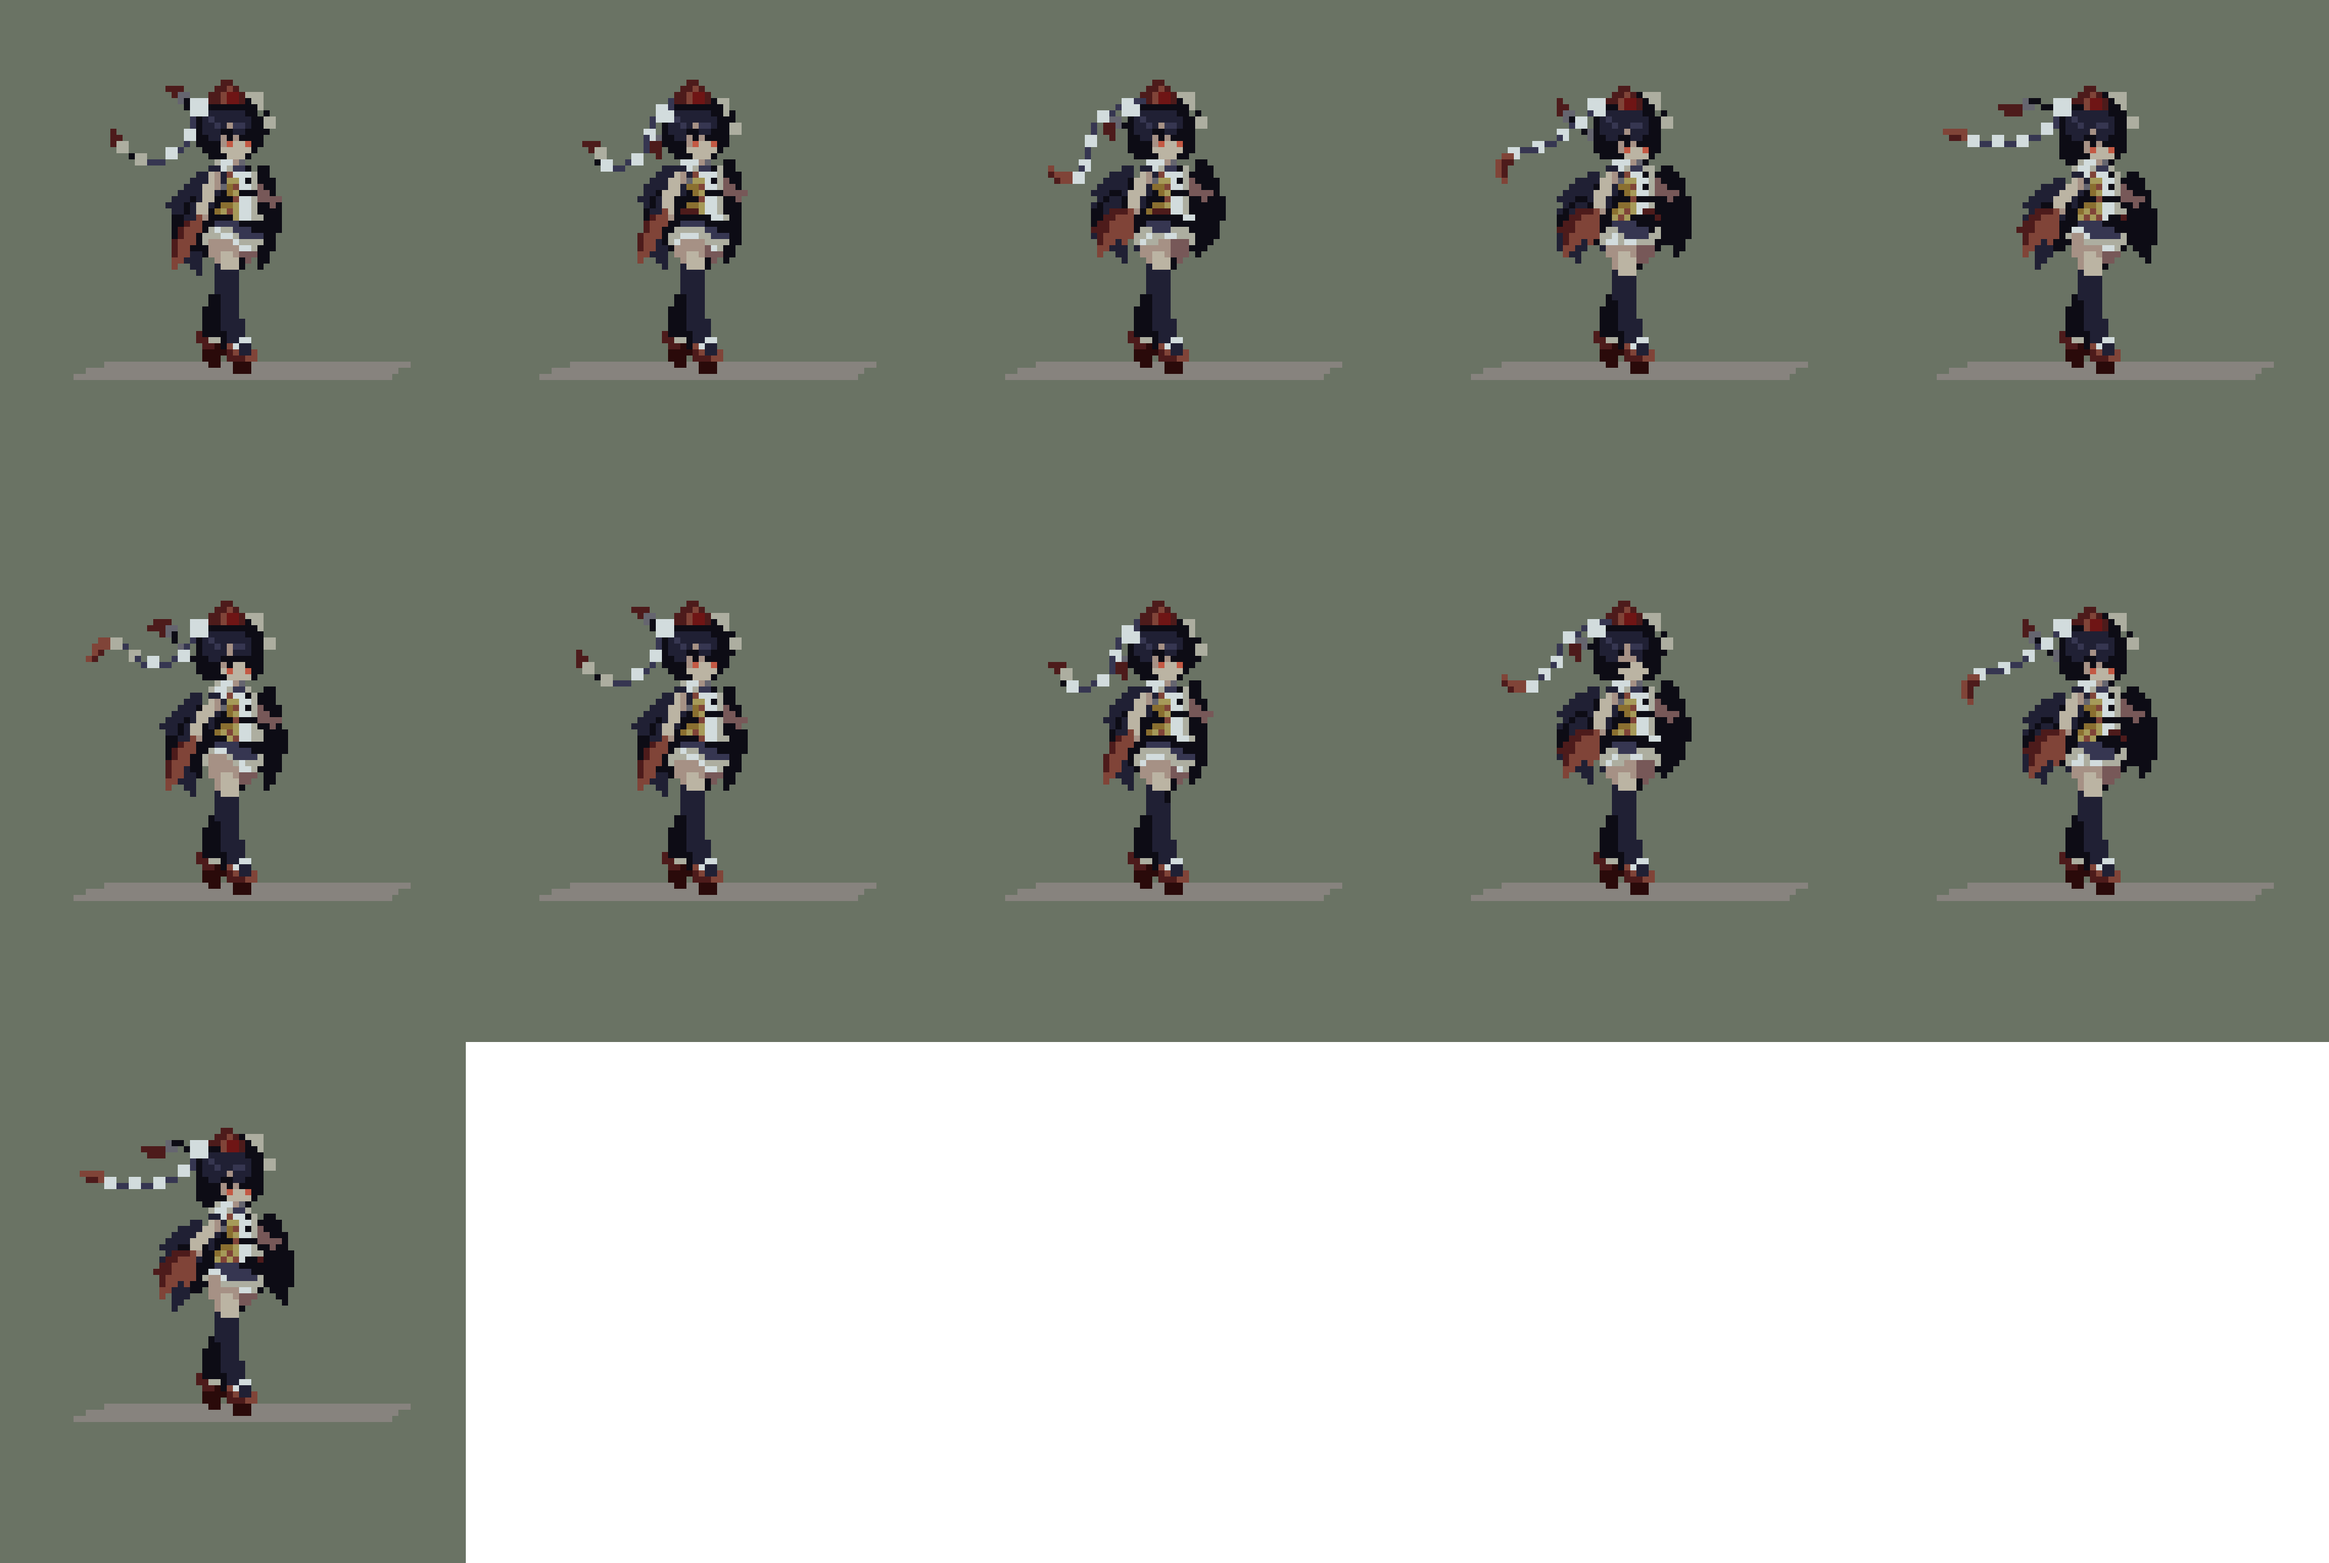
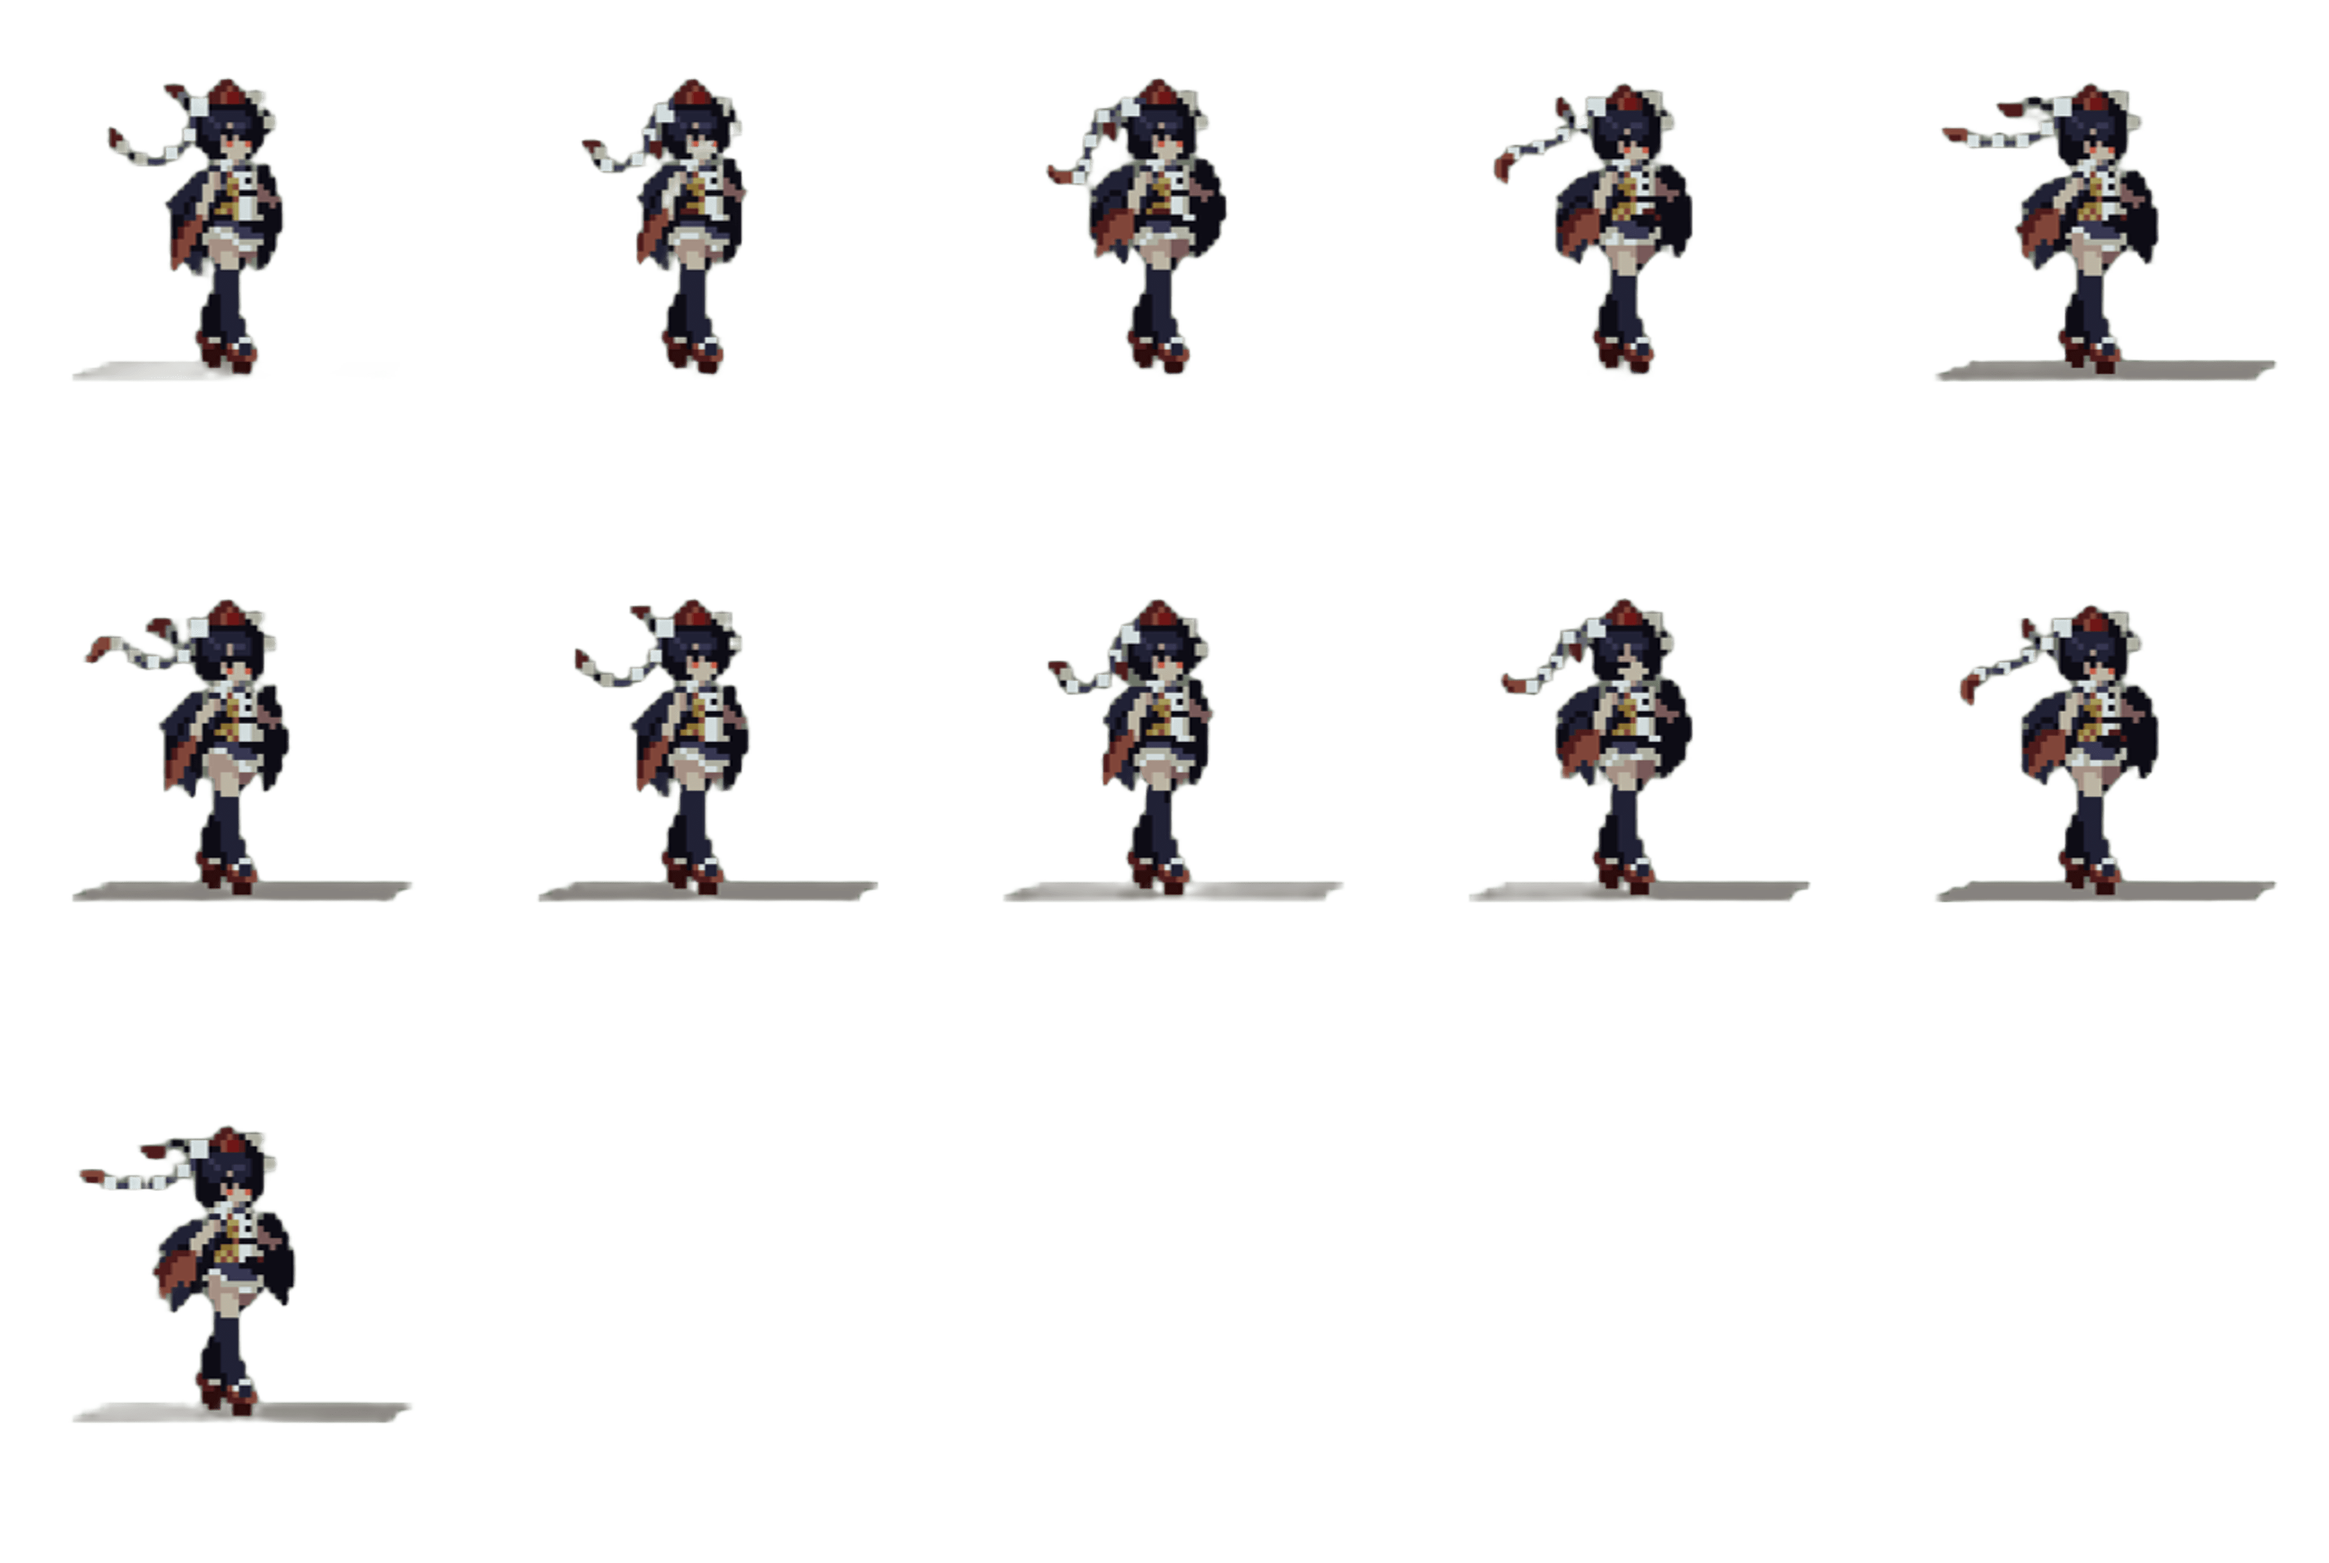
what : 添加行走的动画重命名文件

diff --git a/Player/Player.cs b/Player/Player.cs
@@ -9,15 +9,31 @@ public partial class Player : CharacterBody2D
     private float colddownEnemy = 0.1f;
     private float shootTimerEnemy = 0.0f;
     private float shootTimer = 0.0f;
+    [Export]
+    public AnimatedSprite2D anima = new AnimatedSprite2D();
+    
     public override void _Ready()
     {
-        var texture = new GradientTexture2D();
-        var gradient = new Gradient();
-        gradient.AddPoint(0, Colors.White);
-        texture.Gradient = gradient;
-        texture.Width = 64; 
-        texture.Height = 64; 
-        GetNode<Sprite2D>("Sprite2D").Texture = texture;
+        var shader = new Shader();
+        shader.Code = @"
+        shader_type canvas_item;
+
+        uniform vec4 key_color : hint_color = vec4(106, 115, 100, 1.0); // 默认绿色
+
+        void fragment() {
+            vec4 tex_color = texture(TEXTURE, FRAGCOORD.xy / TEXTURE_PIXEL_SIZE);
+            if (distance(tex_color.rgb, key_color.rgb) < 0.1) {
+                discard;
+            }
+            COLOR = tex_color;
+        }
+    ";
+
+        var shaderMaterial = new ShaderMaterial();
+        shaderMaterial.Shader = shader;
+        shaderMaterial.Set("shader_param/key_color", new Color(106, 115, 100, 1));
+
+        anima.Material = shaderMaterial;
     }
     [Export] 
     public float MoveSpeed = 300.0f;
@@ -30,6 +46,15 @@ public partial class Player : CharacterBody2D
         Velocity = inputDirection * MoveSpeed * 2;
         MoveAndSlide();
 
+        if(Velocity == Vector2.Zero)
+        {
+            anima.Play("idle");
+
+        }
+        else
+        {
+            anima.Play("move");
+        }
         RestrictToScreenBounds();
 
         if (Input.IsActionPressed("ui_select") && shootTimer >= colddown) // 默认空格键对应 "ui_select" 输入动作
